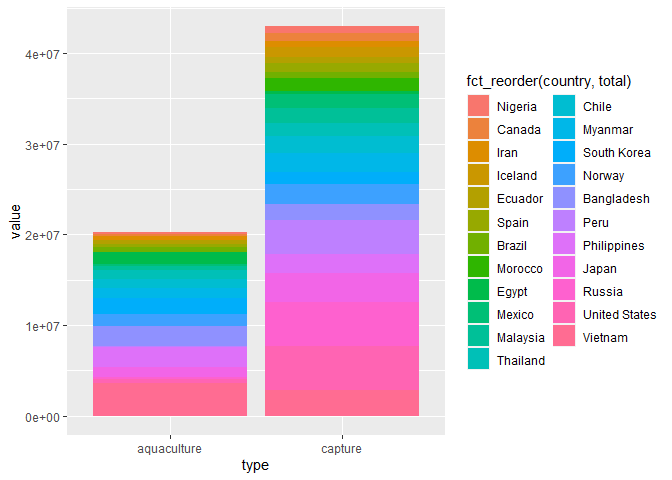
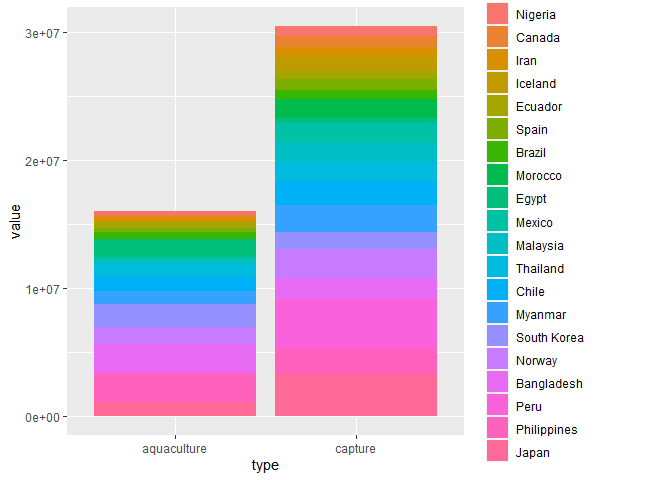
First pass at all

diff --git a/lab-06.md b/lab-06.md
@@ -161,3 +161,161 @@ fish_long %>%
 ```
 
 ![](lab-06_files/figure-gfm/try-something-better-1.png)<!-- -->
+
+``` r
+fish_long %>%
+  filter(!country %in% c("China", "India", "Indonesia", "Vietnam", "United States", "Russia"), total > 1000000) %>%
+  ggplot(aes(x = type, y = value, fill = fct_reorder(country, value)))+
+  geom_bar(stat = "identity")
+```
+
+![](lab-06_files/figure-gfm/try-something-better-2.png)<!-- -->
+
+``` r
+fish_long %>%
+  filter(total > 1000000) %>%
+  ggplot(aes(x = fct_reorder(country, value), fill = type, y = value))+
+  geom_bar(stat = "identity")
+```
+
+![](lab-06_files/figure-gfm/one-last-plot-1.png)<!-- -->
+
+### Stretch Exercises
+
+``` r
+library(mosaicData)
+
+data(Whickham)
+```
+
+### Exercise 1
+
+The data is most likely observational, because it is described as a
+survey conducted at 2 time points, and also because the IV is whether
+someone is a smoker. Given the health risks involved in smoking, it is
+unlikely that the researchers would have randomly assigned people to
+become smokers for 20 years, which would be extremely unethical.
+
+### Exercise 2
+
+There are 1314 observations in the dataset, each of which represents a
+woman in the town of Whickham.
+
+### Exercise 3
+
+There are 3 variables in the dataset, which represent:
+
+1.  Whether the participant was still alive 20 years after the initial
+    survey (dichotomous)
+2.  The participants smoker status at the time of the initial survey
+    (dichotomous)
+3.  The participants age at the time of the initial survey (continuous)
+
+``` r
+ggplot(Whickham, aes(x = outcome))+
+  geom_bar()
+```
+
+![](lab-06_files/figure-gfm/viz-vars-1.png)<!-- -->
+
+``` r
+ggplot(Whickham, aes(x = smoker))+
+  geom_bar()
+```
+
+![](lab-06_files/figure-gfm/viz-vars-2.png)<!-- -->
+
+``` r
+ggplot(Whickham, aes(x = age))+
+  geom_histogram(color = "black", fill = "grey80")
+```
+
+    ## `stat_bin()` using `bins = 30`. Pick better value with `binwidth`.
+
+![](lab-06_files/figure-gfm/viz-vars-3.png)<!-- -->
+
+### Exercise 4
+
+My expectation would be that smoking would be associated with worse
+health outcomes. In this case, that would mean greater or earlier
+mortality among smokers.
+
+### Exercise 5
+
+Based on the visualization, people who reported being smokers at time 1
+don’t seem to differ much from people who reported not being smokers in
+terms of their likelihood of surviving to time 2. The conditional
+probabilities reveal that, apparently contrary to my prediction, smokers
+were descriptively less likely to have died by time 2 than non-smokers.
+
+``` r
+ggplot(Whickham, aes(x = smoker, fill = outcome))+
+  geom_bar(position = "fill")
+```
+
+![](lab-06_files/figure-gfm/viz-results-1.png)<!-- -->
+
+``` r
+Whickham %>%
+  count(smoker, outcome) %>%
+  group_by(smoker) %>%
+  mutate(prob_dead = n/sum(n))
+```
+
+    ## # A tibble: 4 × 4
+    ## # Groups:   smoker [2]
+    ##   smoker outcome     n prob_dead
+    ##   <fct>  <fct>   <int>     <dbl>
+    ## 1 No     Alive     502     0.686
+    ## 2 No     Dead      230     0.314
+    ## 3 Yes    Alive     443     0.761
+    ## 4 Yes    Dead      139     0.239
+
+### Exercise 6
+
+``` r
+Whickham <- Whickham %>%
+  mutate(age_cat = case_when(
+    age <= 44 ~ "18 - 44",
+    age > 44 & age <= 64 ~ "45 - 64",
+    age > 64 ~ "65+"))
+```
+
+### Exercise 7
+
+Not too surprisingly, the likelihood of mortality was much higher for
+people who were 65 and above at time 1, and much lower for people
+between 18-44. For younger people, the those who were smokers were
+somewhat more likely to have died by time 2 than non-smokers. For 65 and
+older people, if we were to only focus on comparing the “dead” columns,
+it would look like more non-smokers than smokers are dying. However,
+when we compare the size of the bars, we can see that very few smokers
+above the age of 65 were ever surveyed, and a higher proportion of them
+died compared to non-smokers over 65. The original plot was misleading
+about the effect, because a majority of 65+ individuals died regardless
+of their smoker status and there weren’t very many 65+ smokers available
+to sample in the first place. Combining all the age categories together
+masked these nuances of the data. This is an example of Simpson’s
+paradox.
+
+``` r
+ggplot(Whickham, aes(x = smoker, fill = outcome))+
+  facet_wrap(~ age_cat)+
+  geom_bar()
+```
+
+![](lab-06_files/figure-gfm/unraveling-age-1.png)<!-- -->
+
+``` r
+Whickham %>%
+  count(smoker, outcome, age_cat) %>%
+  pivot_wider(names_from = age_cat, values_from = n)
+```
+
+    ## # A tibble: 4 × 5
+    ##   smoker outcome `18 - 44` `45 - 64` `65+`
+    ##   <fct>  <fct>       <int>     <int> <int>
+    ## 1 No     Alive         327       147    28
+    ## 2 No     Dead           12        53   165
+    ## 3 Yes    Alive         270       167     6
+    ## 4 Yes    Dead           15        80    44
